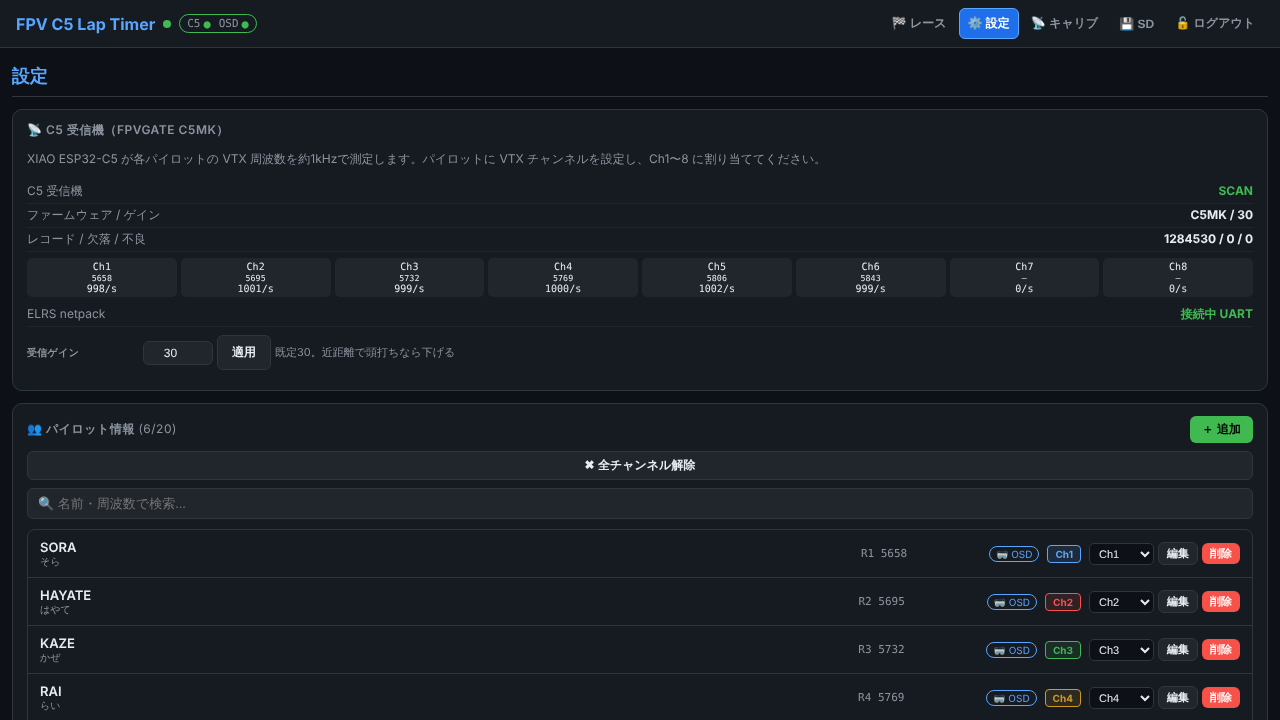
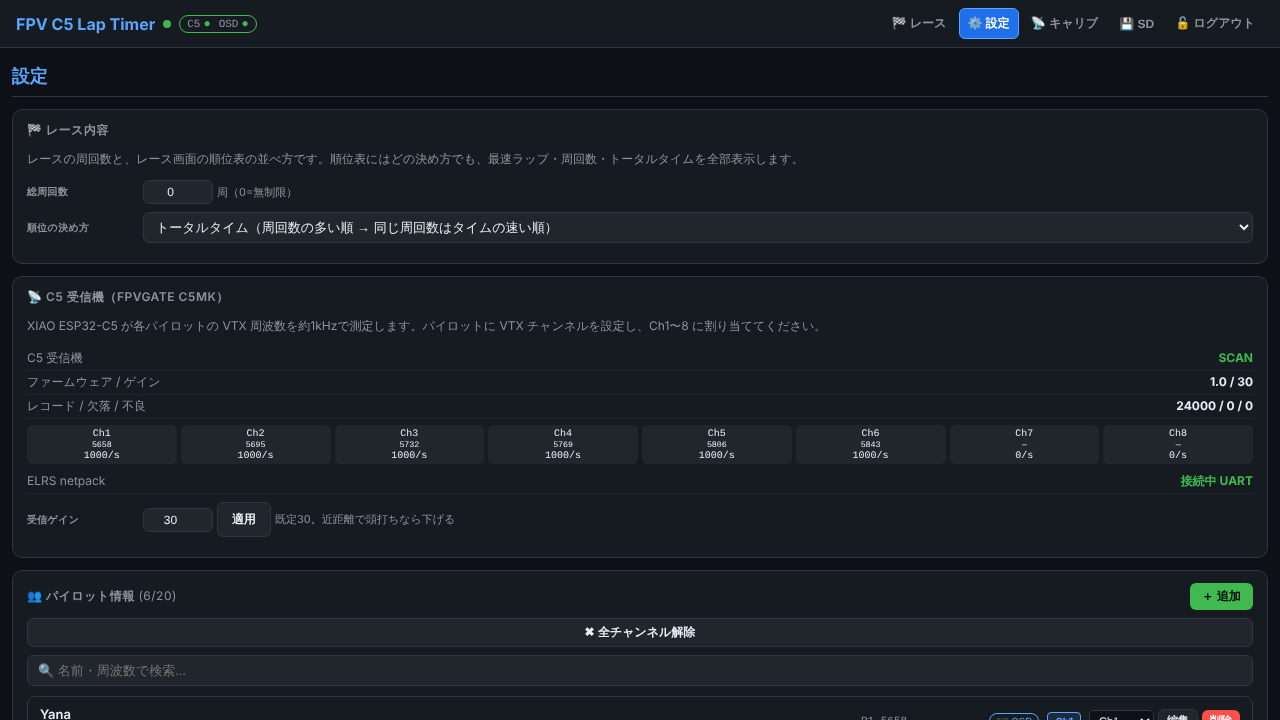
Docs: README (ja/en) and screenshots for v1.0.7
README: ranking table, the race content card, timed race (time left,
minus after time-up, callouts and fanfare), the start sequence run by
the timer, browsers in step, the race director's switch (toggle / push,
DVR Rec), the voice test button, the OSD clock (3-2-1, stopped time) and
how OSD updates are repeated, the connectionless bridge, WiFi channel,
checklist and troubleshooting. Screenshots retaken from the current UI.
Mock server: /mock/seed (sample pilots and a race) and sample RSSI and
receiver status, used for the screenshots.

Claude-Session: https://claude.ai/code/session_01Q2Uv87iB1MVGM6bMxL52gL

diff --git a/tools/mock_server.py b/tools/mock_server.py
@@ -7,6 +7,7 @@ Serves data/ and answers /api/* from memory, with a WebSocket at /ws that
 broadcasts what the firmware does (init, race_*, lap, settings, calib,
 active_update, config_changed), so several browsers can be checked
 against each other. GET /mock/lap?slot=N records a pass for slot N.
+GET /mock/seed loads sample pilots and a stopped race (for screenshots).
 """
 import base64
 import hashlib
@@ -97,6 +98,36 @@ def init_msg():
                 now=now_ms(), sdPresent=True, pilots=pilots)
 
 
+SAMPLE = [  # name, yomi, freq, holeshot ms, lap times ms
+    ("Yana", "やな", 5658, 2100, [21340, 20480, 19870, 20110]),
+    ("Taro", "たろう", 5695, 2350, [22150, 21020, 21460, 20890]),
+    ("Hana", "はな", 5732, 2600, [23010, 22340, 21980]),
+    ("Ken", "けん", 5769, 2450, [21870, 22760, 21550, 21330]),
+    ("Mio", "みお", 5806, 2900, [24120, 23380, 22910]),
+    ("Sora", "そら", 5843, 3100, [25410, 24020]),
+]
+
+
+def seed():
+    """Sample pilots on Ch1-6 and a stopped race with their laps."""
+    state["pilots"] = [{"name": n, "yomi": y, "freq": f, "bind": "", "osd": True, "enter": 350, "exit": 280}
+                       for n, y, f, _, _ in SAMPLE]
+    state["active"] = list(range(len(SAMPLE))) + [-1] * (8 - len(SAMPLE))
+    state["elrs"]["enabled"] = True
+    t0 = now_ms() - 100000
+    laps = []
+    for slot, (_, _, _, hs, times) in enumerate(SAMPLE):
+        ts = t0 + hs
+        laps.append({"slot": slot, "lapTime": hs, "ts": ts})
+        for t in times:
+            ts += t
+            laps.append({"slot": slot, "lapTime": t, "ts": ts})
+    laps.sort(key=lambda l: l["ts"])
+    r = state["race"]
+    r.update(running=False, paused=True, t0=time.monotonic() - 96.4, elapsed=96.4, laps=laps, epoch=r["epoch"] + 1)
+    broadcast({"type": "active_update", "pilots": active_json()})
+
+
 def slot_of(pid):
     return state["active"].index(pid) if pid in state["active"] else -1
 
@@ -141,6 +172,9 @@ class Handler(SimpleHTTPRequestHandler):
             lap_ms = ts - (mine[-1]["ts"] if mine else int(r["t0"] * 1000))
             r["laps"].append({"slot": slot, "lapTime": lap_ms, "ts": ts})
             broadcast({"type": "lap", "pilot": slot, "lapTime": lap_ms, "lapCount": len(mine) + 1, "ts": ts})
+            return self.reply({"ok": True})
+        if p == "/mock/seed":
+            seed()
             return self.reply({"ok": True})
         if p == "/api/laps":
             return self.reply(state["race"]["laps"])
@@ -292,11 +326,26 @@ if __name__ == "__main__":
         n = 0
         while True:
             time.sleep(0.1)
-            broadcast({"type": "rssi_all", "ts": now_ms(), "p": []})
+            # Sample RSSI for the assigned slots: a floor with noise and a
+            # gate pass every few seconds (for the race cards and calibration).
+            t = time.monotonic()
+            p = []
+            for s, ri in enumerate(state["active"]):
+                if ri < 0:
+                    continue
+                phase = (t + s * 1.7) % 6.0
+                v = 120 + int(15 * ((n * 7 + s * 13) % 10) / 10)
+                if phase < 0.8:
+                    v += int(420 * (1 - abs(phase - 0.4) / 0.4))
+                p.append({"pilot": s, "rssi": v, "crossing": v > 350, "signal": True})
+            broadcast({"type": "rssi_all", "ts": now_ms(), "p": p})
             n += 1
             if n % 10 == 0:
                 r = state["race"]
-                broadcast({"type": "c5", "online": True, "scanning": True, "state": "SCAN", "elrs": {"enabled": False},
+                act = sum(1 for a in state["active"] if a >= 0)
+                broadcast({"type": "c5", "online": True, "scanning": True, "state": "SCAN", "fw": "1.0", "gain": 30,
+                           "records": n * 100 * act, "gaps": 0, "bad": 0,
+                           "rate": [1000 if a >= 0 else 0 for a in state["active"]], "elrs": {"enabled": state["elrs"]["enabled"], "connected": state["elrs"]["enabled"], "peer": "UART"},
                            "race": {"run": r["running"], "paused": r["paused"], "el": int(race_elapsed() * 1000),
                                     "now": now_ms(), "laps": len(r["laps"]), "epoch": r["epoch"]}})
     threading.Thread(target=telemetry, daemon=True).start()

diff --git a/README.en.md b/README.en.md
@@ -30,14 +30,17 @@ VTX 5.8 GHz ─▶ XIAO ESP32-C5 (C5MK) ─UART 921600─▶ XIAO ESP32-S3 (this
 
 The web UI in a phone or PC browser, shown here with sample pilots and laps.
 
-**Race (PC)**: one card per assigned channel (8 per row on a PC, 4 on a phone
-in landscape, 2 in portrait), each with RSSI, best lap, lap times and totals.
-The header lamps show the C5 receiver and OSD links (green: connected, red:
-not connected).
+**Race (PC)**: from the top, the race clock with Start / Stop / Clear /
+voice test, the **ranking table**, and one card per assigned channel (8 per
+row on a PC, 4 on a phone in landscape, 2 in portrait). The ranking table
+lists every pilot's best lap, laps and total time, ordered by the ranking
+rule in Settings. Each card shows RSSI, best lap, lap times and totals. The
+header lamps show the C5 receiver and OSD links (green: connected, red: not
+connected).
 
 ![Race tab (PC)](docs/images/race-pc.png)
 
-| Race (phone, portrait) | Settings (C5 receiver, pilots) |
+| Race (phone, portrait) | Settings (🏁 race content, C5 receiver, pilots) |
 |---|---|
 | <img src="docs/images/race-phone.png" alt="Race tab (phone)" width="320"> | <img src="docs/images/settings-pc.png" alt="Settings tab" width="480"> |
 
@@ -111,17 +114,65 @@ the netpack XIAO) and calibrate Enter/Exit in the Calib tab
 (C5 scale 0..1023, 16 counts per dB). The race tab shows only the assigned
 channels.
 
+**🏁 レース内容** (race content, top of the Settings tab): total laps (0 =
+no limit) and the ranking rule: total time (most laps, then fastest), best
+lap, or **laps within a time limit** (30 s to 30 min; choose whether the last
+lap after time-up counts).
+
+**Race director's switch** (optional): in 🥽 ELRS OSD, enter the race
+director's bind phrase ("ディレクターバインドフレーズ") and pick the switch
+kind: **toggle** (a switch that stays put: on starts, off stops) or **push**
+(a button: each press starts or stops; presses within 1.5 s count once). On
+the TX, assign the switch to Lua → Backpack → **DVR Rec**.
+
+## Racing
+
+- **Start** (or the race director's switch): "レディ" is said, then a 3 s
+  countdown (**ARM NOW** and 3, 2, 1 on the goggles), then **GO!**. The timer
+  runs this sequence, so every open browser and every goggle follow it at the
+  same moment.
+- Each gate pass records a lap: tones, Japanese TTS, the OSD, and the ranking
+  table update at once.
+- **Stop** pauses (**LAND NOW!**); the clock stays on the stopped time on the
+  timer and the goggles. **Start** again resumes (the pause is left out of
+  the laps).
+- **Laps within a time limit**: the timer and the goggles count the time left;
+  "残り30秒" / "残り20秒", then every second from 10, and a fanfare at 0 (ticks
+  with voice off). After time-up the clock shows the time over in red (minus)
+  until Stop.
+- **Clear** saves the race to SD as CSV and clears every browser and goggle.
+- "音声テスト" plays the gate tone and a sample call (voice settings are in
+  the Settings tab). Tap the page once after opening it so the browser may
+  play sound.
+- PC and phone browsers show the same race time: it runs on the timer's
+  clock, every button reaches every browser, and a browser that missed a
+  message catches up within a second.
+
 After `git pull`, run `git submodule update --init --recursive` and flash the
 S3 (`upload` and `uploadfs`) and, for the UART link, the ESP-NOW bridge again.
 
 ### Goggle OSD
 
-Every second the timer resends each pilot's whole screen, every row at its
-full width. The OSD "clear" command is only sent at ARM NOW and when laps are
-cleared, so a packet lost on the ESP-NOW hop leaves the previous text up
-instead of blanking the row. The lap time stays up for 5 s after the pass
-(redrawn twice, 0.8 s apart); the race clock starts at GO!. Passes after a
-pilot completes the total laps don't count.
+Rows are written at their full width. The OSD "clear" command is only sent
+at ARM NOW and when laps are cleared, so a packet lost on the ESP-NOW hop
+leaves the previous text up instead of blanking the row. The lap time stays
+up for 5 s after the pass. The race clock shows 3, 2, 1 during ARM NOW,
+starts at GO! (the time left in a timed race, then `-mm:ss`), and stays on
+the stopped time until the laps are cleared. Passes after a pilot completes
+the total laps don't count.
+
+To cover lost packets:
+
+- **Changes**: the whole screen goes out, again 0.2 s apart (2 times, 4 for
+  something removed), and 4 more times over 1–5.5 s. An emptied row is sent
+  as spaces for 8 s.
+- **Race clock**: each second only the clock row; the whole screen for a few
+  seconds after a change and every 2 s.
+- **ESP-NOW bridge**: **connectionless** (broadcast, no ACK wait, no retries),
+  each update sent **3 times** at least 3 ms apart. Goggles that are off
+  don't delay anyone; two goggles on one bind phrase both show the OSD.
+- In client mode, put the router on 2.4 GHz **channel 6–11** (ESP-NOW is
+  fixed to channel 1).
 
 ### WiFi modes (Settings → 📶 WiFi)
 
@@ -148,7 +199,9 @@ pilot completes the total laps don't count.
 `bash test/run.sh` runs the core unit tests, a simulated C5MK UART →
 c5host → gate detection → laps pipeline, and a cross-check that loads the real
 vrxc_elrs Python source and compares bind-phrase UIDs and OSD bytes with the
-firmware's, byte for byte. CI (`.github/workflows/ci.yml`) runs them and
+firmware's, byte for byte. The web UI runs against a mock server with no
+hardware: `python3 tools/mock_server.py`, then `http://localhost:8000`
+(`/mock/seed` loads sample pilots and a race). CI (`.github/workflows/ci.yml`) runs them and
 builds the S3 timer, the C5 firmware and the ESP-NOW bridge (Wrover-E and
 XIAO ESP32-C3).
 
